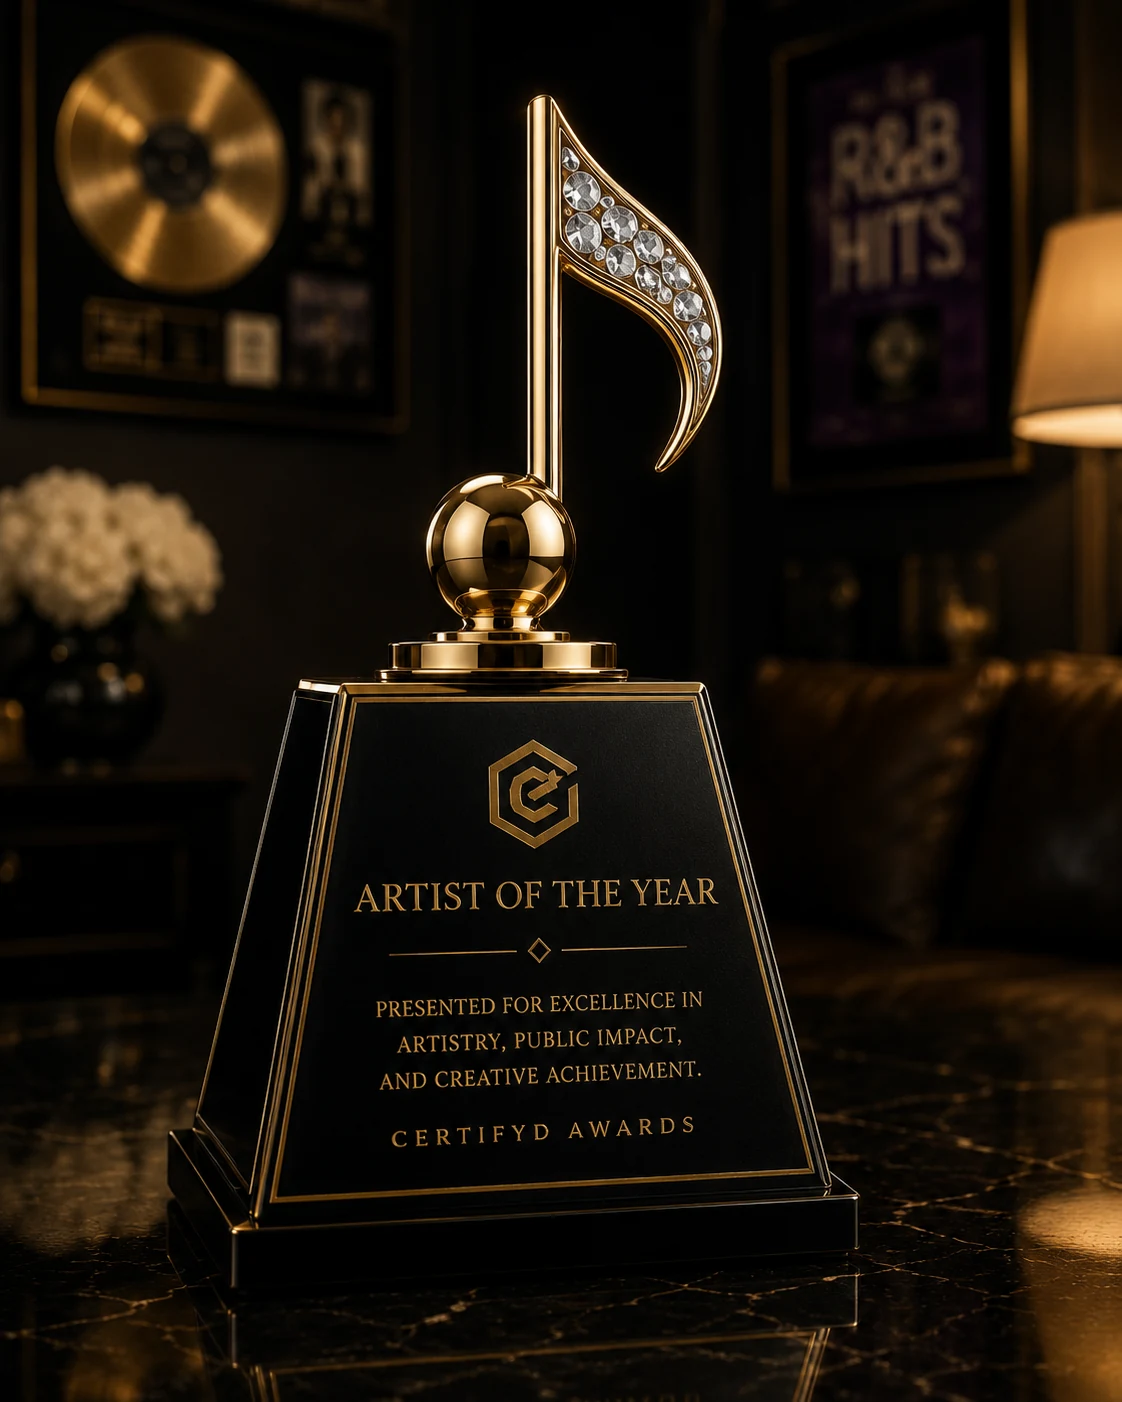
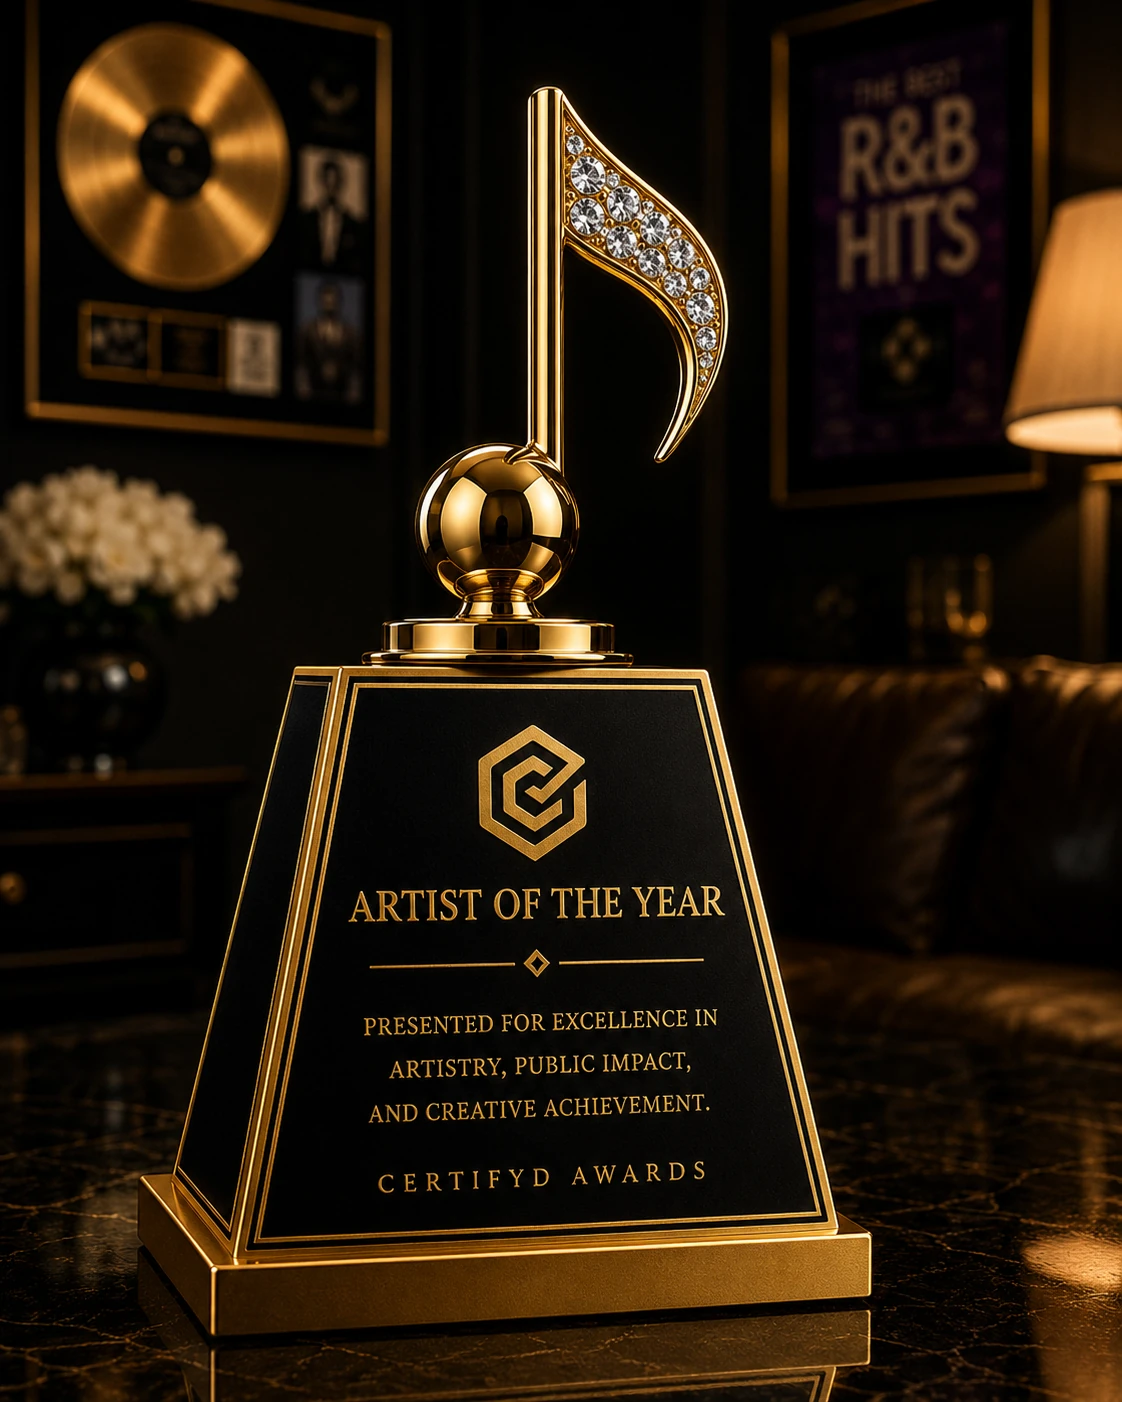
Update award imagery and title layout

diff --git a/src/styles.css b/src/styles.css
@@ -2536,6 +2536,34 @@ h2,
   object-position: center 42%;
 }
 
+.founders-hero .founders-title {
+  max-width: 11ch !important;
+  font-size: clamp(4.2rem, 6.6vw, 7.2rem) !important;
+  line-height: 0.9 !important;
+  letter-spacing: -0.045em !important;
+  overflow-wrap: normal !important;
+  word-break: keep-all !important;
+  hyphens: manual !important;
+}
+
+.founders-hero .founders-title span {
+  display: block !important;
+  max-width: none !important;
+  overflow-wrap: normal !important;
+  word-break: keep-all !important;
+  white-space: nowrap !important;
+}
+
+@media (min-width: 721px) and (max-width: 1280px) {
+  .founders-hero {
+    grid-template-columns: minmax(420px, 0.92fr) minmax(420px, 1.08fr) !important;
+  }
+
+  .founders-hero .founders-title {
+    font-size: clamp(3.5rem, 5.4vw, 5.6rem) !important;
+  }
+}
+
 @media (max-width: 720px) {
   .founders-hero {
     padding: 24px 16px !important;